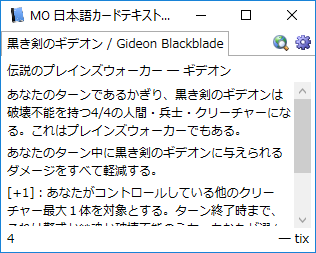
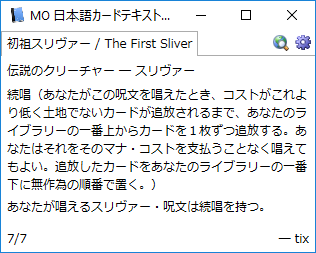
カード名を表示しているタブとツールバーの重なりを防ぐため、TextTrimmingをWordEllipsisに変更。UIテキストの表現を見直し

diff --git a/mojp/MainWindow.xaml b/mojp/MainWindow.xaml
@@ -91,7 +91,7 @@
             </TabControl.ItemContainerStyle>
             <TabControl.ItemTemplate>
                 <DataTemplate DataType="local:Card">
-                    <TextBlock Text="{Binding DisplayName}" TextTrimming="CharacterEllipsis" ToolTip="{Binding FullName, Mode=OneTime}" />
+                    <TextBlock Text="{Binding DisplayName}" TextTrimming="WordEllipsis" ToolTip="{Binding FullName, Mode=OneTime}" />
                 </DataTemplate>
             </TabControl.ItemTemplate>
             <TabControl.ContentTemplate>
@@ -171,9 +171,9 @@
                     <ColumnDefinition Width="Auto" />
                 </Grid.ColumnDefinitions>
                 <Image Source="Resources/Checkmark.png" Height="16" />
-                <TextBlock Grid.Column="1" Margin="4,0,0,0" TextTrimming="CharacterEllipsis">Penny Dreadful カードリストを更新しました。</TextBlock>
+                <TextBlock Grid.Column="1" Margin="4,0,0,0" TextTrimming="CharacterEllipsis">Penny Dreadful カードリストを取得しました。</TextBlock>
                 <Button Grid.Column="2" BorderBrush="{x:Null}" Background="{x:Null}"
-                        ToolTip="この通知を消します。" Click="OnClosePdSuccess">
+                        ToolTip="この通知を消します。設定で Penny Dreadful への対応を無効にできます。" Click="OnClosePdSuccess">
                     <Image Source="Resources/Close.png" Height="14" />
                 </Button>
             </Grid>
@@ -207,7 +207,7 @@
                     <Hyperlink ToolTip="https://fog-bank.github.io/mojp/" Click="OnGoToNewRelease">新しいバージョンがあります。</Hyperlink>
                 </TextBlock>
                 <Button Grid.Column="2" BorderBrush="{x:Null}" Background="{x:Null}"
-                        ToolTip="この通知を消します。設定で自動的に確認しないようにできます。" Click="OnCloseNotifier">
+                        ToolTip="この通知を消します。設定で自動確認を無効にできます。" Click="OnCloseNotifier">
                     <Image Source="Resources/Close.png" Height="14" />
                 </Button>
             </Grid>

diff --git a/docs/index.html b/docs/index.html
@@ -38,12 +38,17 @@
     <h3 id="download">ダウンロード</h3>
     <div>
       <p>ダウンロード時に、ブラウザやセキュリティソフトからセキュリティ警告が出る場合があります。</p>
-      <h4><span class="underline">最新版 v2.4.0（灯争大戦 対応）</span></h4>
+      <h4><span class="underline">最新版 v2.5.0（モダンホライゾン 対応）</span></h4>
       <p>
         <img src="images/download_file.png" width="16" height="16" />
-        <a href="https://fog-bank.github.io/mojp/downloads/v2.4.0/mojp.zip">ZIP 版</a> ｜
+        <a href="https://fog-bank.github.io/mojp/downloads/v2.5.0/mojp.zip">ZIP 版</a> ｜
         <img src="images/clickonce.png" width="16" height="16" />
-        <a href="https://github.com/fog-bank/mojp/releases/download/v2.4.0/setup.exe">インストーラー版</a> ｜
+        <a href="https://github.com/fog-bank/mojp/releases/download/v2.5.0/setup.exe">インストーラー版</a> ｜
+        <img src="images/note.png" width="16" height="16" />
+        <a href="https://github.com/fog-bank/mojp/releases/tag/v2.5.0">リリースノート</a>
+      </p>
+      <h4><span class="underline">v2.4.0（灯争大戦 対応）</span></h4>
+      <p>
         <img src="images/note.png" width="16" height="16" />
         <a href="https://github.com/fog-bank/mojp/releases/tag/v2.4.0">リリースノート</a>
       </p>

diff --git a/mojp/OptionDialog.xaml b/mojp/OptionDialog.xaml
@@ -216,7 +216,7 @@
                         <ColumnDefinition Width="Auto" />
                         <ColumnDefinition />
                     </Grid.ColumnDefinitions>
-                    <TextBlock>ローテーション日時 :</TextBlock>
+                    <TextBlock>カードリストの更新日時 :</TextBlock>
                     <TextBlock Name="txbPDRotationTime" Grid.Column="1" Margin="2,4,8,4" />
                     <StackPanel Grid.Column="2" Orientation="Horizontal" 
                                 ToolTip="ローテーション後のカードリストの取得に失敗した場合などに、手動で再取得を試みます。" ToolTipService.ShowDuration="60000">

diff --git a/mojp/Properties/AssemblyInfo.cs b/mojp/Properties/AssemblyInfo.cs
@@ -51,5 +51,5 @@ using System.Windows;
 // すべての値を指定するか、下のように '*' を使ってビルドおよびリビジョン番号を 
 // 既定値にすることができます:
 // [assembly: AssemblyVersion("1.0.*")]
-[assembly: AssemblyVersion("2.4.0.0")]
-[assembly: AssemblyFileVersion("2.4.40605.8")]
+[assembly: AssemblyVersion("2.5.0.0")]
+[assembly: AssemblyFileVersion("2.5.40606.0")]
